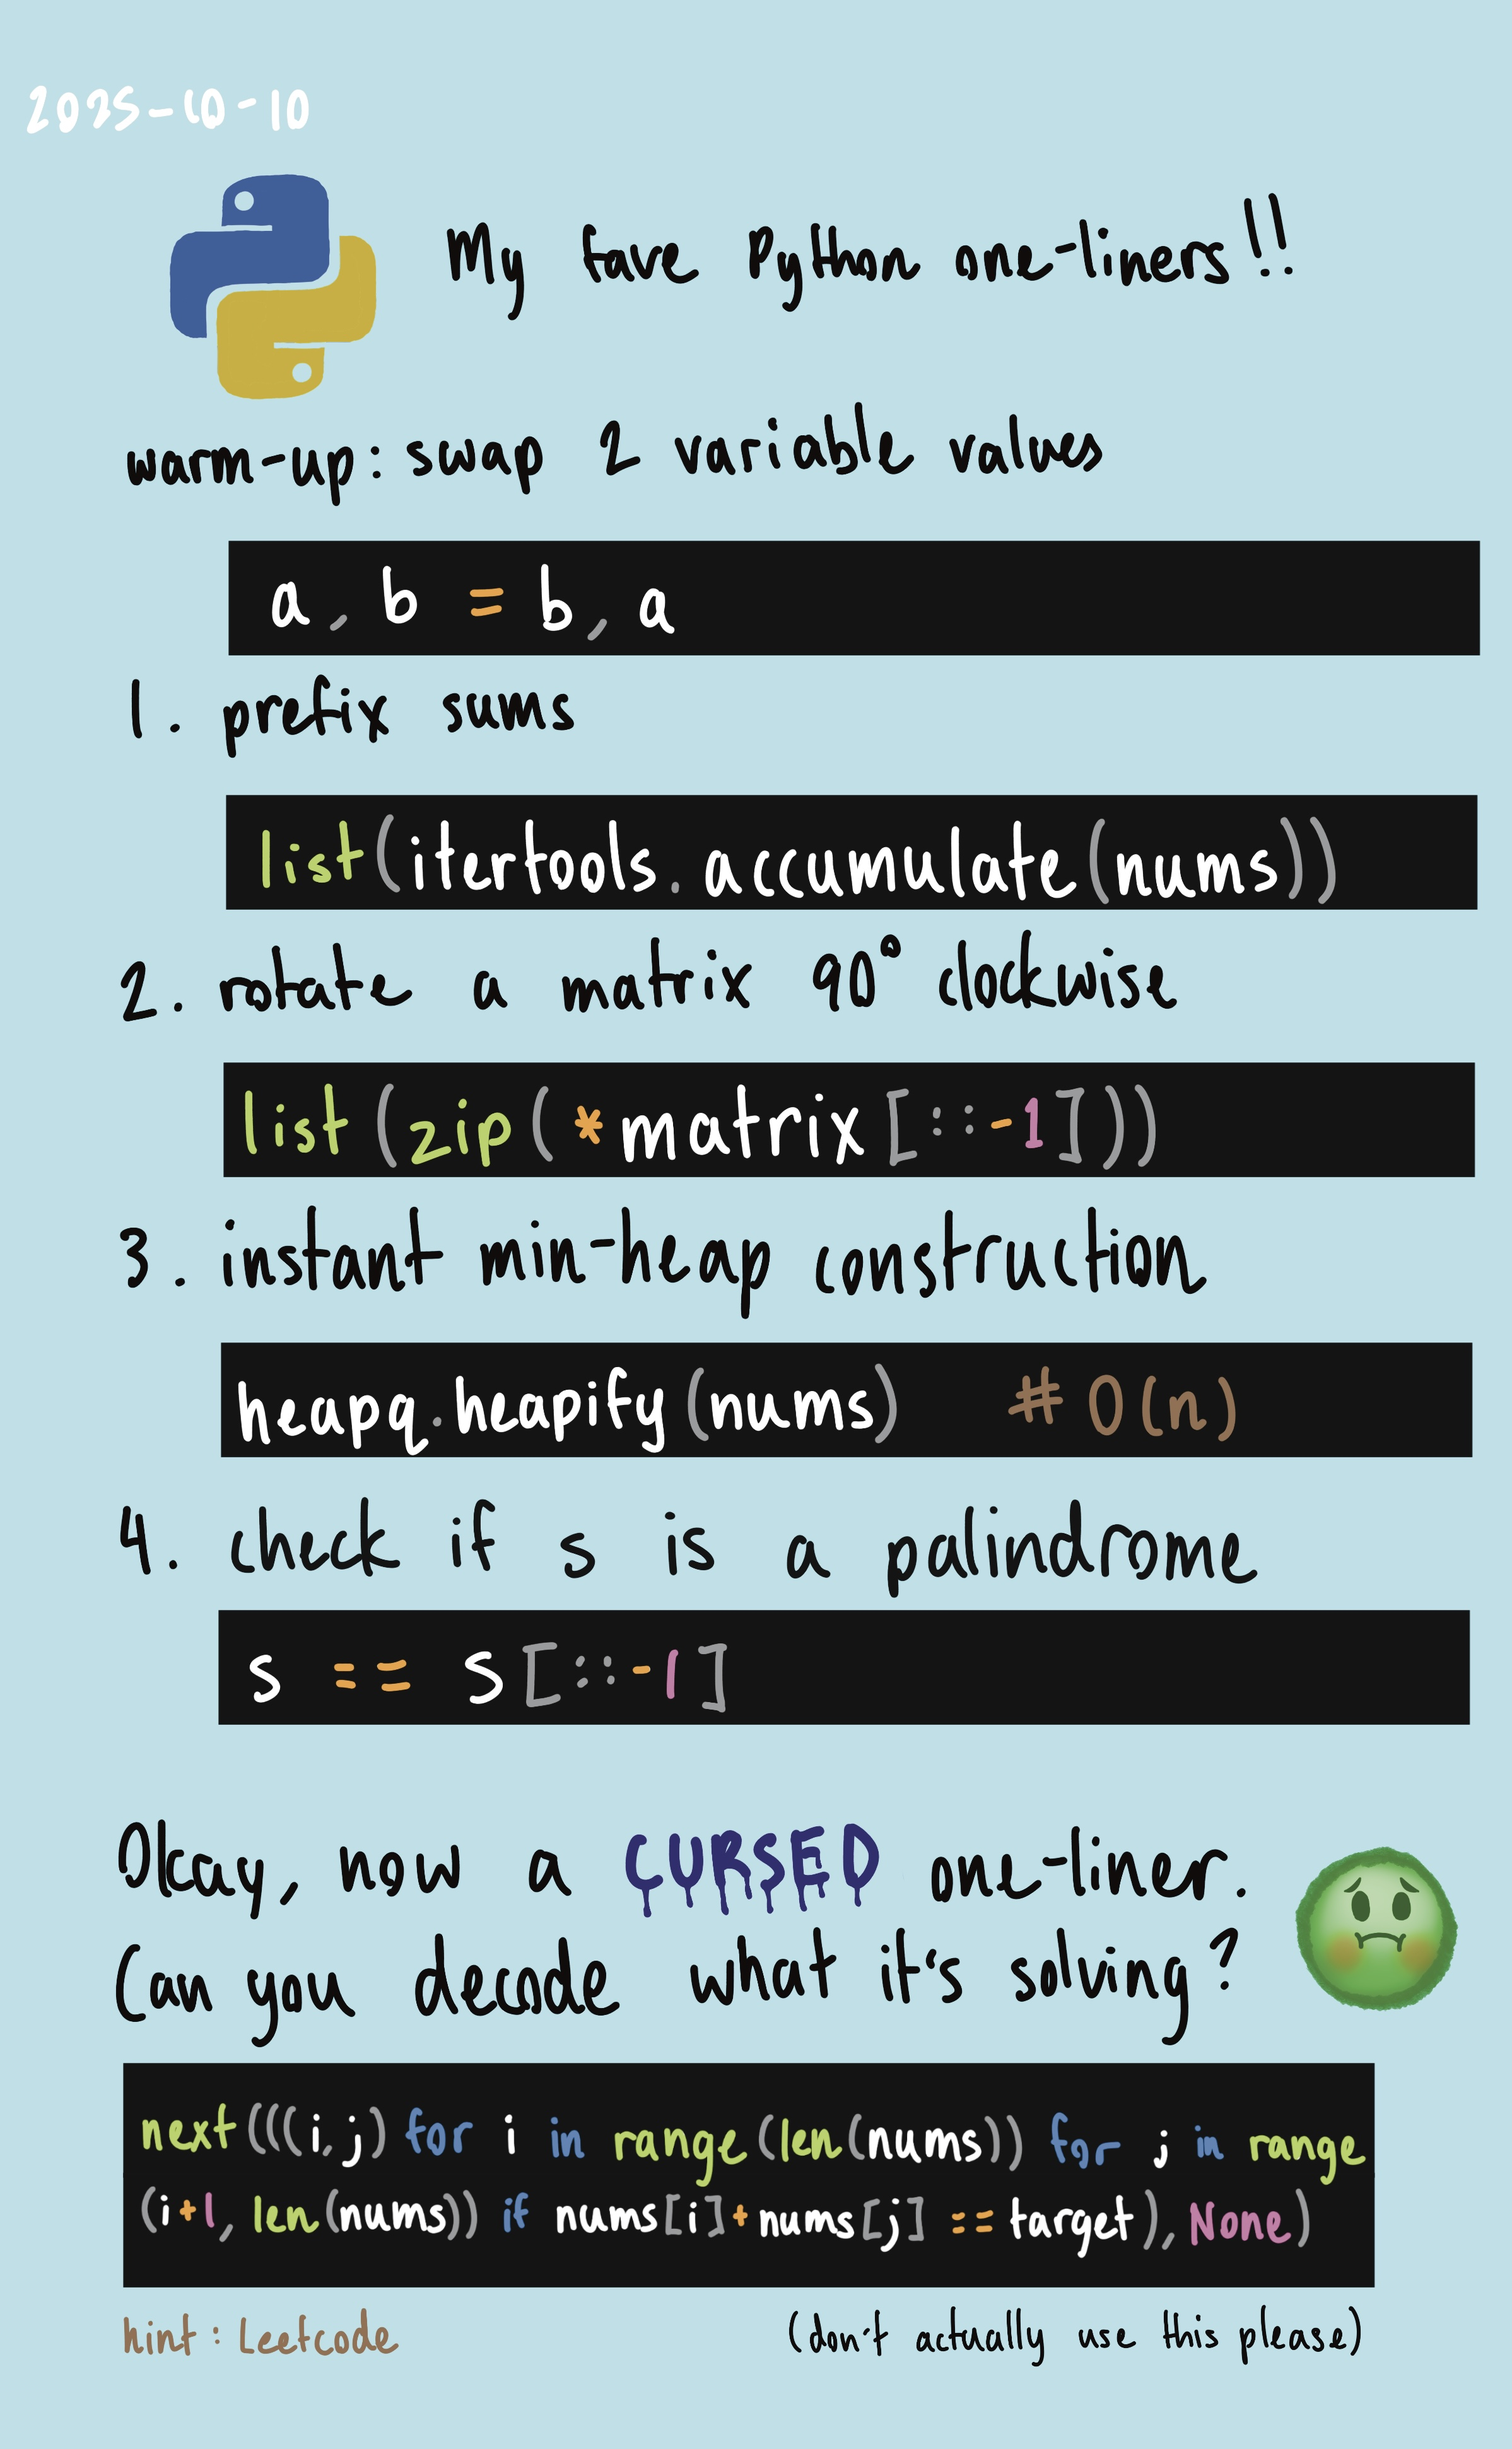
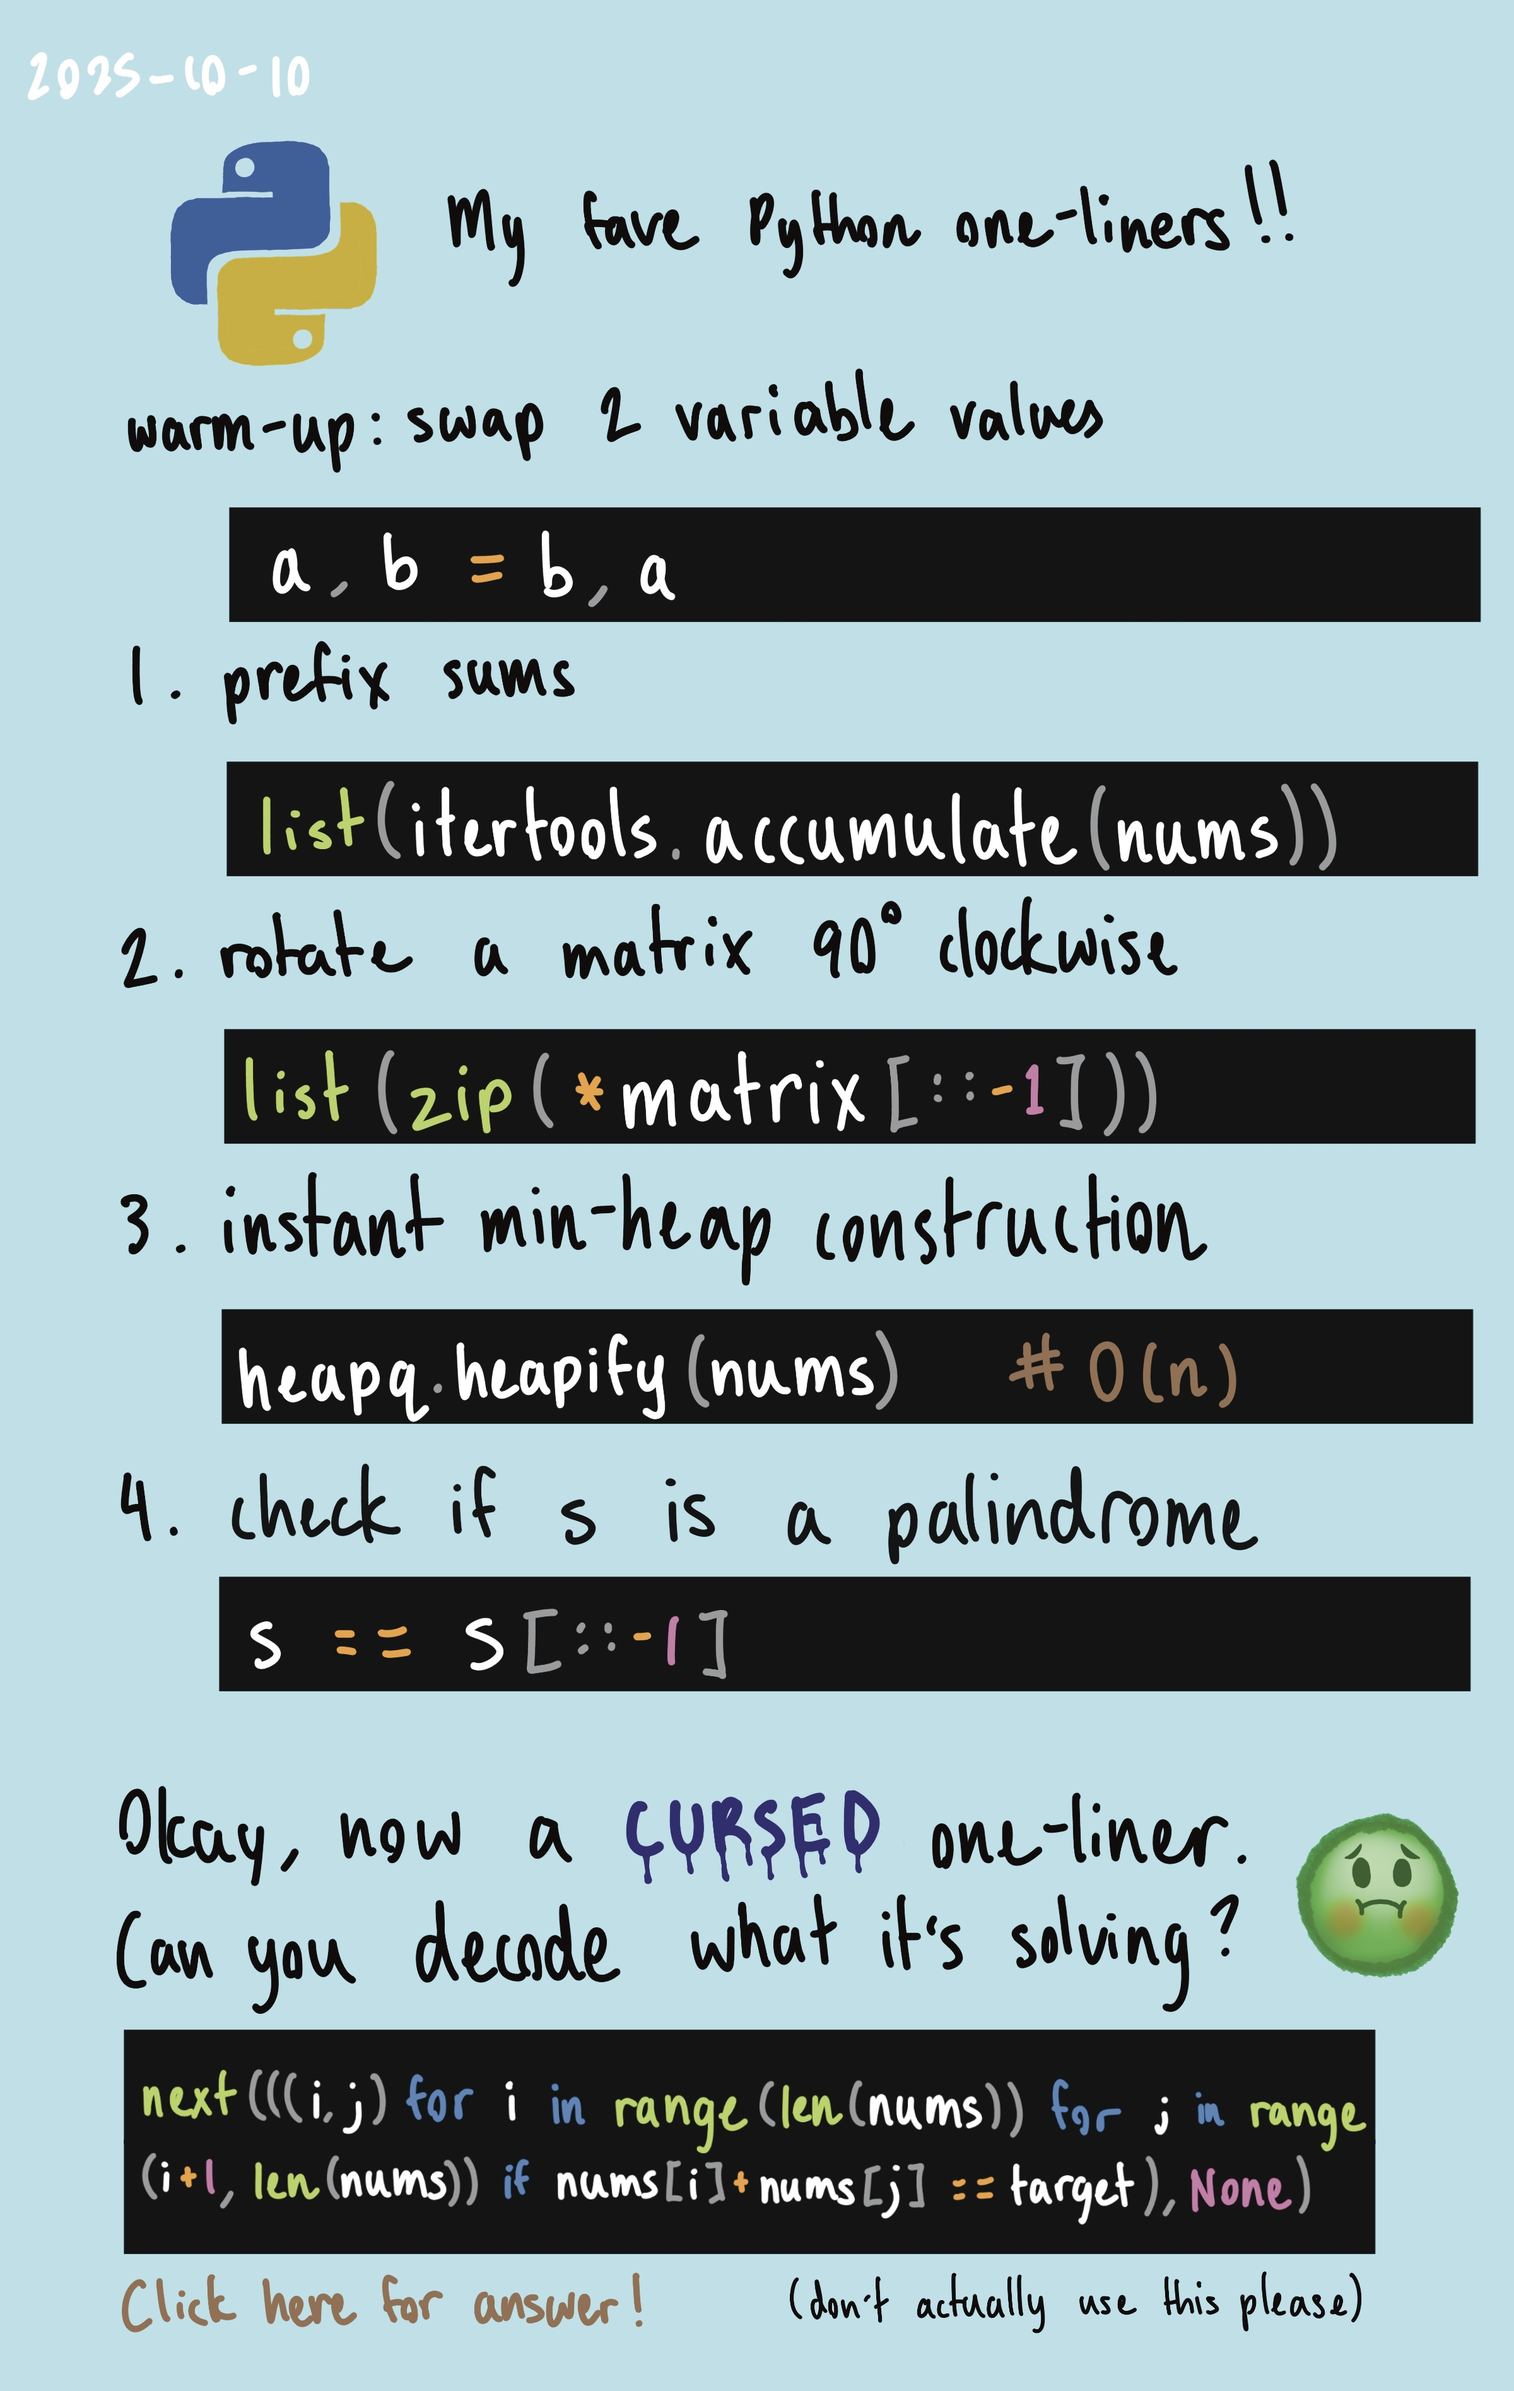
links galore

diff --git a/style.css b/style.css
@@ -47,6 +47,7 @@ body {
   display: flex;
   flex-direction: column;
   gap: 0;
+  position:relative;
 }
 
 .stacked-slices img {
@@ -54,6 +55,9 @@ body {
   height: auto;
   display: block;
 }
+
+.slice { position: relative; }
+.slice img { display: block; width: 100%; height: auto; }
 
 .resume-box {
   position: absolute;
@@ -69,16 +73,131 @@ body {
   cursor: pointer;
 }
 
-.clash-royale-box {
-    position: absolute;
-    /* Debug placement: make the box large and at the top-left of the image */
-    left: 54%;
-    top: 130%;
-    width: 20%;
-    height: 5%;
-    display: block;
-    outline: 3px dashed #ff4d00; 
-    background: rgba(255, 77, 0, 0.15);
-    z-index: 2;
-    cursor: pointer;
+.slice-hobbies .overlay-link {
+  position: absolute;
+  top: 65%;
+  left: 64%;
+  width: 140px;
+  height: 140px;
+  transform: translate(-50%, -50%);
+  z-index: 5;
+  /* debug: */
+  /* outline: 2px dashed #ff4d00;
+  background: rgba(255, 77, 0, 0.15); */
+  display: block;
+  box-sizing: border-box;
 }
+
+/* journal entries */
+
+.slice-py-one-line .ans-link {
+  position: absolute;
+  top: 96%;
+  left: 25%;
+  width: 240px;         /* pick your fixed size */
+  height: 40px;
+  transform: translate(-50%, -50%);
+  /* outline: 3px dashed #ff4d00;
+  background: rgba(255, 77, 0, 0.15); */
+
+  z-index: 10;
+  pointer-events: auto; /* blocks clicks to the link below */
+  box-sizing: border-box;
+}
+
+
+
+
+/* company logo links */
+.slice-experience .overlay-abnormal {
+  position: absolute;
+  top: 23%;
+  left: 18%;
+  width: 160px;         /* pick your fixed size */
+  height: 160px;
+  transform: translate(-50%, -50%);
+  /* outline: 3px dashed #ff4d00;
+  background: rgba(255, 77, 0, 0.15); */
+
+  z-index: 10;
+  pointer-events: auto; /* blocks clicks to the link below */
+  box-sizing: border-box;
+}
+
+.slice-experience .overlay-borealis {
+  position: absolute;
+  top: 44.5%;
+  left: 18%;
+  width: 160px;         /* pick your fixed size */
+  height: 160px;
+  transform: translate(-50%, -50%);
+  /* outline: 3px dashed #ff4d00;
+  background: rgba(255, 77, 0, 0.15); */
+
+  z-index: 10;
+  pointer-events: auto; /* blocks clicks to the link below */
+  box-sizing: border-box;
+}
+
+.slice-experience .overlay-awn {
+  position: absolute;
+  top: 66%;
+  left: 18%;
+  width: 160px;         /* pick your fixed size */
+  height: 160px;
+  transform: translate(-50%, -50%);
+  /* outline: 3px dashed #ff4d00;
+  background: rgba(255, 77, 0, 0.15); */
+
+  z-index: 10;
+  pointer-events: auto; /* blocks clicks to the link below */
+  box-sizing: border-box;
+}
+
+.slice-experience .overlay-etr {
+  position: absolute;
+  top: 87.5%;
+  left: 18%;
+  width: 160px;         /* pick your fixed size */
+  height: 160px;
+  transform: translate(-50%, -50%);
+  /* outline: 3px dashed #ff4d00;
+  background: rgba(255, 77, 0, 0.15); */
+
+  z-index: 10;
+  pointer-events: auto; /* blocks clicks to the link below */
+  box-sizing: border-box;
+}
+
+/* leadership */
+.slice-leadership .overlay-htn {
+  position: absolute;
+  top: 47%;
+  left: 18%;
+  width: 160px;         /* pick your fixed size */
+  height: 160px;
+  transform: translate(-50%, -50%);
+  /* outline: 3px dashed #ff4d00;
+  background: rgba(255, 77, 0, 0.15); */
+
+  z-index: 10;
+  pointer-events: auto; /* blocks clicks to the link below */
+  box-sizing: border-box;
+}
+.slice-leadership .overlay-watstreet {
+  position: absolute;
+  top: 78%;
+  left: 18%;
+  width: 160px;         /* pick your fixed size */
+  height: 160px;
+  transform: translate(-50%, -50%);
+  /* outline: 3px dashed #ff4d00;
+  background: rgba(255, 77, 0, 0.15); */
+
+  z-index: 10;
+  pointer-events: auto; /* blocks clicks to the link below */
+  box-sizing: border-box;
+}
+
+
+

diff --git a/index.html b/index.html
@@ -178,7 +178,12 @@
         <img src="./pages/mainpage/mainpage-bow-divider.jpg" alt="Bow divider">
         <img src="./pages/mainpage/mainpage-bio2.jpg" alt="Bio section continued">
         <img src="./pages/mainpage/mainpage-plane-divider.jpg" alt="Plane divider">
-        <img src="./pages/mainpage/mainpage-hobbies.jpg" alt="Hobbies">
+
+        <div class="slice slice-hobbies">
+          <img src="./pages/mainpage/mainpage-hobbies.jpg" alt="Hobbies">
+          <a class="overlay-link" href="https://statsroyale.com/profile/LVY9990Q8" target="_blank"></a>
+        </div>
+
         <img src="./pages/mainpage/mainpage-bow-divider.jpg" alt="Bow divider">
         <img src="./pages/mainpage/mainpage-food.jpg" alt="Food">
         <img src="./pages/mainpage/mainpage-plane-divider.jpg" alt="Plane divider">
@@ -188,12 +193,17 @@
         <img src="./pages/journal/journal-roses-divider.jpg" alt="Roses divider">
         <img src="./pages/journal/tools.jpg" alt="Tools Journal Entry">
         <img src="./pages/journal/journal-roses-divider.jpg" alt="Roses divider">
-        <img src="./pages/journal/python-one-liners.jpg" alt="Python One Liners Journal Entry">
+        
+
+        <div class="slice slice-py-one-line">
+          <img src="./pages/journal/python-one-liners.jpg" alt="Python One Liners Journal Entry">
+          <a class="ans-link" href="https://leetcode.com/problems/two-sum/submissions/1797037951" target="_blank"></a>
+        </div>
+
         <img src="./pages/journal/journal-roses-divider.jpg" alt="Roses divider">
         <!-- Journal Ends -->
 
         <img src="./pages/mainpage/mainpage-footer.jpg" alt="Footer">
-        
     </div>
   </main>
 </body>

diff --git a/resume.html b/resume.html
@@ -70,8 +70,21 @@
       <div class="stacked-slices">
         <img src="./pages/resumepage/resume-header.jpg" alt="Resume header">
         <img src="./pages/resumepage/resume-education.jpg" alt="Education">
-        <img src="./pages/resumepage/resume-experience.jpg" alt="Experience">
-        <img src="./pages/resumepage/resume-leadership.jpg" alt="Leadership">
+        
+        <div class="slice slice-experience">
+          <img src="./pages/resumepage/resume-experience.jpg" alt="Experience">
+          <a class="overlay-abnormal" href="https://abnormal.ai/" target="_blank"></a>
+          <a class="overlay-borealis" href="https://rbcborealis.com/" target="_blank"></a>
+          <a class="overlay-awn" href="https://arcticwolf.com/" target="_blank"></a>
+          <a class="overlay-etr" href="https://www.407etr.com/en/home" target="_blank"></a>
+        </div>
+
+        <div class="slice slice-leadership">
+          <img src="./pages/resumepage/resume-leadership.jpg" alt="Leadership">
+          <a class="overlay-htn" href="https://hackthenorth.com/" target="_blank"></a>
+          <a class="overlay-watstreet" href="https://watstreet.vercel.app/" target="_blank"></a>
+        </div>
+        
       </div>
     </div>
   </main>
